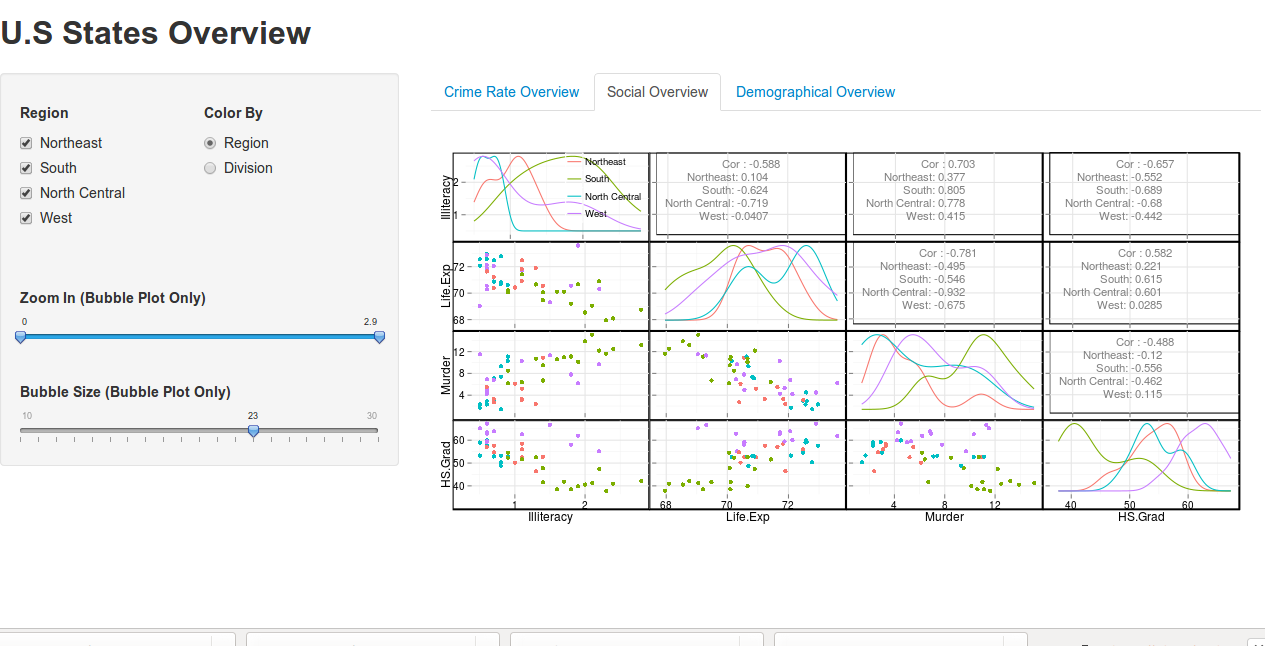
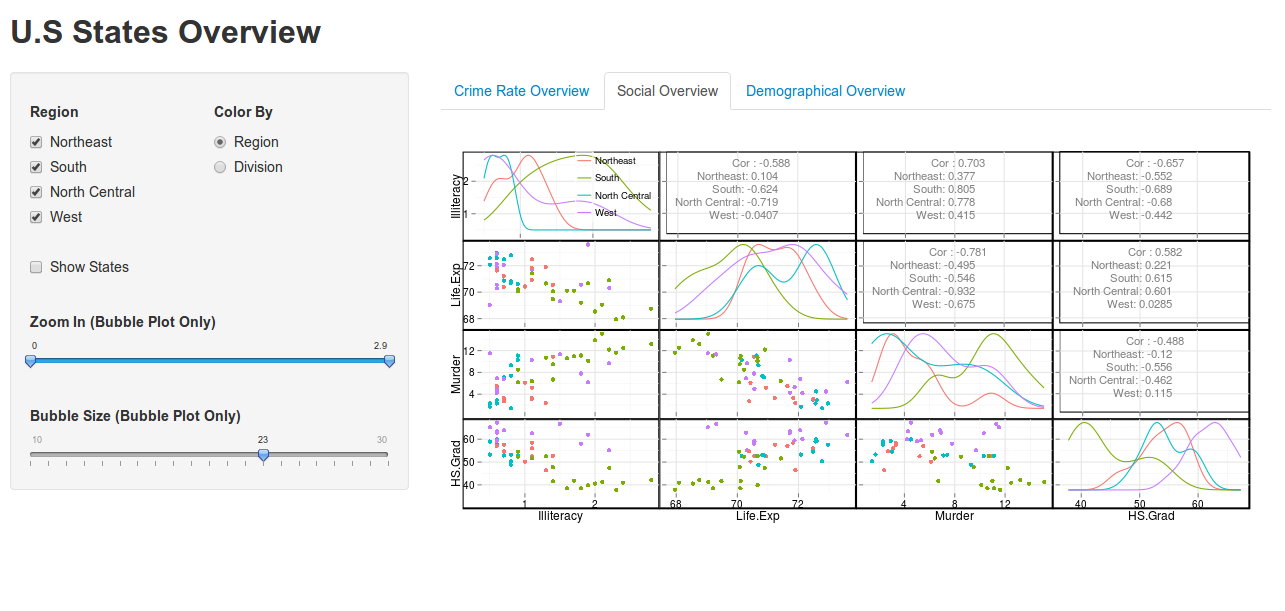
Added an extra screenshot`

diff --git a/homework3/README.md b/homework3/README.md
@@ -32,7 +32,7 @@ The South region has high murder rate and high illiteracy
 
 
 Here is the screenshot of the visualization.
-![IMAGE](Technique1a.png)
+![IMAGE](Technique1.png)
 
 
 There are three different ways in which you can interact with this visualization.
@@ -41,7 +41,7 @@ Third, you can zoom into the visualization by selecting the range of x-axis. The
 
 You can also show states by checkbox:
 
-![IMAGE](Technique1b.png)
+![IMAGE](Technique10.png)
 
 I was curious to know that more about the various U.S states illiteracy rate and its association with Murder rate. The visualization helps us to see illiteracy rate by murder rate for different regions. The application also provides the state name and the population of the state which can be other factors for murder or illiteracy. Since a few of the bubbles are overlapping, the application provides a framework to zoom in which is helful in answering particular questions like "What was the illiteracy rate in CA?"
 
